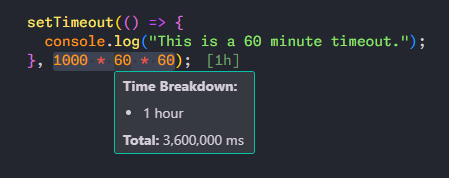
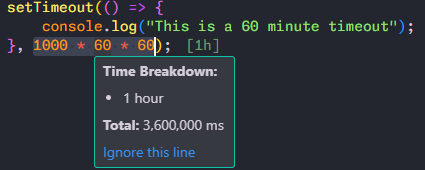
Release 1.1.2
- Added option to disable ghost text with `// @no-milliseconds`.
- Added `Ignore this line` to hover message.
- Updated package version to 1.1.2.

Changed region(s): [[0.0, 0.0, 0.9788, 0.9412], [0.2141, 0.9706, 0.5506, 1.0]]

diff --git a/src/extension.js b/src/extension.js
@@ -43,7 +43,23 @@ function activate(context) {
     }
   });
 
-  context.subscriptions.push(convertToReadableCommand, convertToMillisecondsCommand);
+  let ignoreLineCommand = vscode.commands.registerCommand("extension.ignoreLine", async (lineNumber) => {
+    const editor = vscode.window.activeTextEditor;
+    if (lineNumber === undefined) {
+      vscode.window.showErrorMessage("You can only ignore a line by hovering over it.");
+      return;
+    }
+    if (editor) {
+      const line = editor.document.lineAt(lineNumber);
+      const text = line.text;
+      const newText = text + (text.trim().endsWith(";") ? "" : "") + " // @no-milliseconds";
+      await editor.edit((editBuilder) => {
+        editBuilder.replace(line.range, newText);
+      });
+    }
+  });
+
+  context.subscriptions.push(convertToReadableCommand, convertToMillisecondsCommand, ignoreLineCommand);
 
   vscode.window.onDidChangeActiveTextEditor((editor) => {
     if (editor) {
@@ -107,7 +123,14 @@ function activate(context) {
             formatSecond +
             `\n\n**Total:** ${formattedMilliseconds} ms`;
 
-          return new vscode.Hover(hoverMessage);
+          const commandUri = vscode.Uri.parse(
+            `command:extension.ignoreLine?${encodeURIComponent(JSON.stringify([position.line]))}`
+          );
+          const markdown = new vscode.MarkdownString(hoverMessage);
+          markdown.appendMarkdown(`\n\n[Ignore this line](${commandUri})`);
+          markdown.isTrusted = true;
+
+          return new vscode.Hover(markdown);
         } catch (error) {
           console.error("Error evaluating expression:", expression, error);
         }
@@ -120,6 +143,7 @@ function activate(context) {
   function updateDecorations(editor, decorationType) {
     if (!editor) return;
 
+    // Get configuration
     const text = editor.document.getText();
     const regex = /(\d+\s*\*\s*\d+(\s*\*\s*\d+)*)/g;
     const decorations = [];
@@ -127,10 +151,16 @@ function activate(context) {
     let match;
     while ((match = regex.exec(text))) {
       try {
-        const milliseconds = eval(match[0]);
-        const humanReadableTime = formatMilliseconds(milliseconds);
         const startPos = editor.document.positionAt(match.index);
         const line = editor.document.lineAt(startPos.line);
+
+        // Check if line has ignore comment
+        if (line.text.includes("@no-milliseconds")) {
+          continue;
+        }
+
+        const milliseconds = eval(match[0]);
+        const humanReadableTime = formatMilliseconds(milliseconds);
         const lineEnd = new vscode.Position(startPos.line, line.text.length);
 
         const range = new vscode.Range(lineEnd, lineEnd);

diff --git a/README.md b/README.md
@@ -8,6 +8,7 @@ A simple VS Code extension to help developers work with timestamps by displaying
 
 - Displays "ghost text" alongside the current timestamp in a human-readable format or the reverse (milliseconds) to help you visualize time while working with timestamps instead of having to write e.g. `1000 * 60 * 60 * 24 * 7`.
 - The ghost text updates in real-time, making it easier to compare and adjust times.
+- You can disable the ghost text by adding `// @no-milliseconds` to the line.
 
 ![Ghost text in the editor](images/ghostText.png)
 
@@ -19,8 +20,13 @@ A simple VS Code extension to help developers work with timestamps by displaying
 ### Time Breakdown in the Hover Tooltip
 
 - Displays the time breakdown in the hover tooltip alongside the ghost text, making it easier to understand the time value.
+- Option to disable ghost text by clicking `Ignore this line`.
 
 ![Time breakdown in the hover tooltip](images/hoverTooltip.png)
+
+### Line Ignoring Feature
+
+- Add `// @no-milliseconds` to any line to prevent ghost text from appearing.
 
 ## Commands
 

diff --git a/CHANGELOG.md b/CHANGELOG.md
@@ -1,5 +1,12 @@
 # Change Log
 
+## [1.1.2] - 2025-04-26
+
+### Added
+
+- Added option to disable ghost text for a line by adding `// @no-milliseconds` to it.
+- Added `Ignore this line` to hover message.
+
 ## [1.1.1] - 2025-03-28
 
 ### Added
